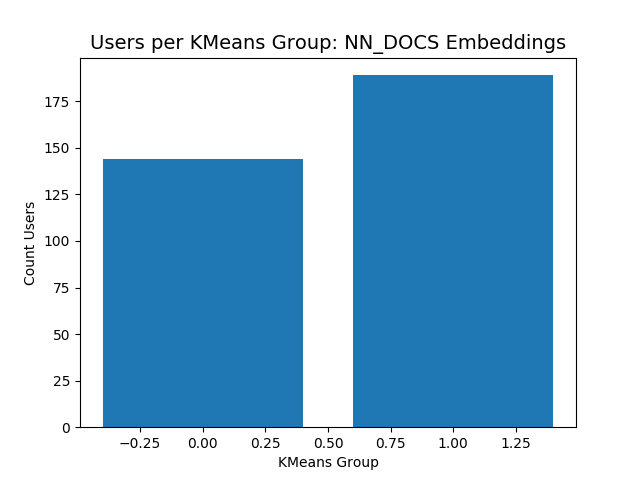
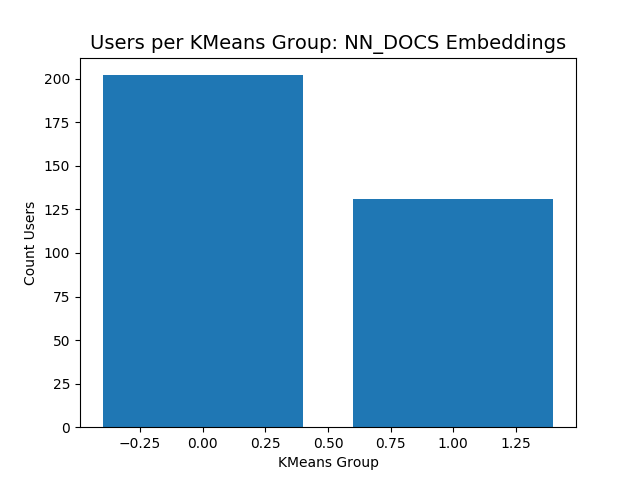
adding tokenizer for all data

diff --git a/app/lib/word_tokenizer.py b/app/lib/word_tokenizer.py
@@ -92,24 +92,6 @@ class WordTokenizer(object):
 
         return tokens, text
 
-    def _get_train_test_data(self, filename):
-        # Get df, and list of all users' tweets.
-        tweets_by_user_df = self._user_grouper(filename)
-
-        # Get user classes
-        db_cols = ['class', 'user_description', 'username']
-        user_class_df = jsonl_to_df('users', db_cols)
-        user_class_df = user_class_df[['username', 'class']]
-
-        tagged_df = pd.merge(tweets_by_user_df, user_class_df, left_on='username', right_on='username')
-        # Only use known tags
-        tagged_df = tagged_df[tagged_df['class'] != 'U']
-
-        train, test = train_test_split(tagged_df, test_size=0.2, random_state=60)
-        train_target = train['class']
-        test_target = test['class']
-        return train, test, train_target, test_target
-
     def analyst_judgement(self, filename, count_words):
         print('[WordTokenizer] Getting analyst judgement vectors...')
         # Get df, and list of all users' tweets.
@@ -176,10 +158,13 @@ class WordTokenizer(object):
         tweets_by_user_array_test = np.array(tweets_by_user_vec_test)
         return top_words, tweets_by_user_array, tweets_by_user_array_test, train_target, test_target
 
-    def tf_idf(self, filename, count_words):
+    def tf_idf(self, filename, count_words, get_all_data=False):
         print('[WordTokenizer] Getting TF-IDF vectors...')
         # Get df, and list of all users' tweets.
-        tweets_by_user_df, tweets_by_user_df_test, train_target, test_target = self._get_train_test_data(filename)
+        if get_all_data:
+            tweets_by_user_df = self._get_all_data(filename)
+        else:
+            tweets_by_user_df, tweets_by_user_df_test, train_target, test_target = self._get_train_test_data(filename)
 
         # NOTE: cleanup with stopwords makes it not english because the string removal isn't right.
         # all_stopwords = list(stopwords.words('english'))
@@ -188,27 +173,35 @@ class WordTokenizer(object):
         #     tweets_by_user_df['tweets'] = tweets_by_user_df['tweets'].str.replace(word,'')
 
         tweets_by_user_list = tweets_by_user_df['tweets'].tolist()
-        tweets_by_user_list_test = tweets_by_user_df_test['tweets'].tolist()
+        if not get_all_data:
+            tweets_by_user_list_test = tweets_by_user_df_test['tweets'].tolist()
 
         # Calculate TF-IDF
         vectorizer = TfidfVectorizer()
         tweets_by_user_vec = vectorizer.fit_transform(tweets_by_user_list)
-        tweets_by_user_vec_test = vectorizer.transform(tweets_by_user_list_test)
+        if not get_all_data:
+            tweets_by_user_vec_test = vectorizer.transform(tweets_by_user_list_test)
 
         # Change up matrices to get most important words
-        feature_array = np.array(vectorizer.get_feature_names())
-        tweets_by_user_sorted_vec = np.argsort(tweets_by_user_vec.toarray()).flatten()[::-1]
-
+        # feature_array = np.array(vectorizer.get_feature_names())
+        # tweets_by_user_sorted_vec = np.argsort(tweets_by_user_vec.toarray()).flatten()[::-1]
         # top_words_tfidf = feature_array[tweets_by_user_sorted_vec][:count_words]
+
+        if get_all_data:
+            return tweets_by_user_df, tweets_by_user_vec
+
         return tweets_by_user_df, tweets_by_user_vec, tweets_by_user_vec_test, train_target, test_target
 
-    def nn_embeddings(self, filename, retrain=True):
+    def nn_embeddings(self, filename, get_all_data=False):
         print('[WordTokenizer] Getting NN embedding vectors...')
         # NOTE: getting embeddings for entire corpus. Not splitting into train/test yet.
         #       The train/test split will occur outside of this function as the model develops next assignment.
 
         # Use DF for all tweets by user
-        tweets_by_user_df, tweets_by_user_df_test, train_target, test_target = self._get_train_test_data(filename)
+        if get_all_data:
+            tweets_by_user_df = self._get_all_data(filename)
+        else:
+            tweets_by_user_df, tweets_by_user_df_test, train_target, test_target = self._get_train_test_data(filename)
 
         # Format the documents
         tweets_by_user_list = tweets_by_user_df['tweets'].tolist()
@@ -219,36 +212,64 @@ class WordTokenizer(object):
             doc_tokens, text_string = self._parse_words(text_string)
             tokens.append(doc_tokens)
 
-        # Format test documents
-        tweets_by_user_list_test = tweets_by_user_df_test['tweets'].tolist()
-        documents = [TaggedDocument(doc, [i]) for i, doc in enumerate(tweets_by_user_list_test)]
-        tokens_test = []
-        for doc in tweets_by_user_list_test:
-            text_string = self._parse_doc(doc)
-            doc_tokens, text_string = self._parse_words(text_string)
-            tokens_test.append(doc_tokens)
+        if not get_all_data:
+            # Format test documents
+            tweets_by_user_list_test = tweets_by_user_df_test['tweets'].tolist()
+            documents = [TaggedDocument(doc, [i]) for i, doc in enumerate(tweets_by_user_list_test)]
+            tokens_test = []
+            for doc in tweets_by_user_list_test:
+                text_string = self._parse_doc(doc)
+                doc_tokens, text_string = self._parse_words(text_string)
+                tokens_test.append(doc_tokens)
 
-        model_filename = get_tmpfile('doc2vec_model')
-
-        # Load the documents and train the model, if flag set to retrain
-        if retrain:
-            model = Doc2Vec(documents, vector_size=50, window=4, min_count=2, workers=4, epochs=40)
-            model.train(documents, total_examples=model.corpus_count, epochs=model.epochs)
-            model.save(model_filename)
-
-        # Load the model
-        model = Doc2Vec.load(model_filename)
+        model = Doc2Vec(documents, vector_size=50, window=4, min_count=2, workers=4, epochs=40)
+        model.train(documents, total_examples=model.corpus_count, epochs=model.epochs)
 
         # vectorize training and test sets
         doc2vec_model_vectors_train = np.zeros((len(tokens), 50))
         for i in range(0, len(tokens)):
             doc2vec_model_vectors_train[i, ] = model.infer_vector(tokens[i]).transpose()
 
-        doc2vec_model_vectors_test = np.zeros((len(tokens_test), 50))
-        for i in range(0, len(tokens_test)):
-            doc2vec_model_vectors_test[i, ] = model.infer_vector(tokens_test[i]).transpose()
+        if not get_all_data:
+            doc2vec_model_vectors_test = np.zeros((len(tokens_test), 50))
+            for i in range(0, len(tokens_test)):
+                doc2vec_model_vectors_test[i, ] = model.infer_vector(tokens_test[i]).transpose()
+
+        if get_all_data:
+            return tweets_by_user_df, model, doc2vec_model_vectors_train
 
         return tweets_by_user_df, model, doc2vec_model_vectors_train, doc2vec_model_vectors_test, train_target, test_target
+
+    def _get_train_test_data(self, filename, only_known=True):
+        # Get df, and list of all users' tweets.
+        tweets_by_user_df = self._user_grouper(filename)
+
+        # Get user classes
+        db_cols = ['class', 'user_description', 'username']
+        user_class_df = jsonl_to_df('users', db_cols)
+        user_class_df = user_class_df[['username', 'class']]
+
+        tagged_df = pd.merge(tweets_by_user_df, user_class_df, left_on='username', right_on='username')
+
+        if only_known:
+            tagged_df = tagged_df[tagged_df['class'] != 'U']
+
+        train, test = train_test_split(tagged_df, test_size=0.2, random_state=60)
+        train_target = train['class']
+        test_target = test['class']
+        return train, test, train_target, test_target
+
+    def _get_all_data(self, filename):
+        # Get df, and list of all users' tweets.
+        tweets_by_user_df = self._user_grouper(filename)
+
+        # Get user classes
+        db_cols = ['class', 'user_description', 'username']
+        user_class_df = jsonl_to_df('users', db_cols)
+        user_class_df = user_class_df[['username', 'class']]
+
+        tagged_df = pd.merge(tweets_by_user_df, user_class_df, left_on='username', right_on='username')
+        return tagged_df
 
     def random_forest_classifier(self, train_vec, test_vec, train_target, test_target):
         print('[WordTokenizer] Building classifier...')

diff --git a/runner.py b/runner.py
@@ -43,7 +43,7 @@ if __name__ == "__main__":
         )
 
     # 2) User Analyzer: KNN based on retweets and replies; also builds users file
-    UserAnalyzer().analyzer(read_file=True, filename_users='users')
+    rt_knn_model = UserAnalyzer().analyzer(read_file=True, filename_users='users')
 
     # 3) Build document embeddings and tokenize for more analysis
     word_tokenizer = WordTokenizer()
@@ -58,7 +58,7 @@ if __name__ == "__main__":
         train_vec_nn, \
         test_vec_nn, \
         train_target_nn, \
-        test_target_nn = word_tokenizer.nn_embeddings(filename='tweets', retrain=True)
+        test_target_nn = word_tokenizer.nn_embeddings(filename='tweets')
 
     # 3) Do KMeans as exploratory function
     tfidf_docs_mds_array, tfidf_docs_kmeans_groups = EmbeddingAnalyzer(train_vec_tfidf).analyzer('tfidf', 'docs')
@@ -68,7 +68,14 @@ if __name__ == "__main__":
     EmbeddingAnalysisPlotter().plot_user_results(nn_docs_mds_array, nn_docs_kmeans_groups, 'nn_docs', user_df_nn)
 
     # 4) User embedding analyzer: KNN on embeddings
-    UserEmbeddingAnalyzer().analyzer('tfidf', train_vec_tfidf, test_vec_tfidf, train_target_tfidf, test_target_tfidf)
-    UserEmbeddingAnalyzer().analyzer('nn', train_vec_nn, test_vec_nn, train_target_nn, test_target_nn)
+    tfidf_knn_model = UserEmbeddingAnalyzer().analyzer('tfidf', train_vec_tfidf, test_vec_tfidf, train_target_tfidf, test_target_tfidf)
+    nn_knn_model = UserEmbeddingAnalyzer().analyzer('nn', train_vec_nn, test_vec_nn, train_target_nn, test_target_nn)
 
     # 5) Take most accurate model (TF-IDF KNN), classify unknown users, build network from MDS Euclidean distance
+    user_df_tfidf_full, \
+        vec_tfidf_full = word_tokenizer.tf_idf('tweets', 30, get_all_data=True)
+    tfidf_docs_mds_array_full = EmbeddingAnalyzer(vec_tfidf_full).analyzer('tfidf', 'all_docs', kmeans=False)
+
+    # only take a portion for the above so it doesn't take forever?
+    # build graph euclidean distance
+    # compare to random forrest?

diff --git a/app/lib/user_analyzer.py b/app/lib/user_analyzer.py
@@ -128,6 +128,7 @@ class UserAnalyzer(object):
         knn_model.fit(X_train, y_train)
         y_pred = knn_model.predict(X_test)
         print(classification_report(y_test, y_pred))
+        return knn_model
 
     def analyzer(self, filename_tweets='tweets', filename_users='users', read_file=False):
         print('[UserAnalyzer] Starting to build and classify...')
@@ -145,4 +146,5 @@ class UserAnalyzer(object):
         users_df_known = users_df[users_df['class'] != 'U']
         self._plot_retweet_behavior(users_df_known, 'ratio_retweets', 'Ratio Retweets', 'avg_ratio_retweets_by_class')
         self._plot_retweet_behavior(users_df_known, 'ratio_replies', 'Ratio Replies', 'avg_ratio_replies_by_class')
-        self._knn(users_df_known, test_size=0.2)
+        knn_model = self._knn(users_df_known, test_size=0.2)
+        return knn_model

diff --git a/app/lib/user_embedding_analyzer.py b/app/lib/user_embedding_analyzer.py
@@ -12,7 +12,9 @@ class UserEmbeddingAnalyzer(object):
         knn_model.fit(X_train, y_train)
         y_pred = knn_model.predict(X_test)
         print(classification_report(y_test, y_pred))
+        return knn_model
 
     def analyzer(self, name, X_train, X_test, y_train, y_test):
         print(f'[EmbeddingAnalyzer] Classifying with {name}...')
-        self._knn(name, X_train, X_test, y_train, y_test, test_size=0.2)
+        knn_model = self._knn(name, X_train, X_test, y_train, y_test, test_size=0.2)
+        return knn_model

diff --git a/app/lib/embedding_analyzer.py b/app/lib/embedding_analyzer.py
@@ -22,9 +22,12 @@ class EmbeddingAnalyzer(object):
         y_kmeans = kmeans.predict(array)
         return y_kmeans
 
-    def analyzer(self, name, transform, mds=True):
+    def analyzer(self, name, transform, mds=True, kmeans=True):
         print(f'[EmbeddingAnalyzer] Performing MDS on {transform} for {name}...')
         mds_array = self._mds()
+
+        if not kmeans:
+            return mds_array
 
         if mds:
             print(f'[EmbeddingAnalyzer] Performing KMeans on {transform} for {name}...')

diff --git a/README.md b/README.md
@@ -2,14 +2,14 @@
 
 ## Background
 
-This projects will analyze Tweets relating to violence. Several different Twitter queries will be performed and assessed prior to implementing a categorization model of any sort.
+This projects will analyze political Tweets relating to violence and the election. Several different Twitter queries will be performed and assessed prior to implementing a categorization model of any sort.
 
 ## Instructions
 
 General: 
 
 - Run: `pip install -r requirements.txt`
-- Run: `python runner.py`. Note that no command line arguments added at this time; for more information on what occurs, see the `runner.py` file.
+- Run: `python runner.py`. the `-s`/`--seach` command line argument can be added to perform a new Twitter search.
 
 Scripts:
 
